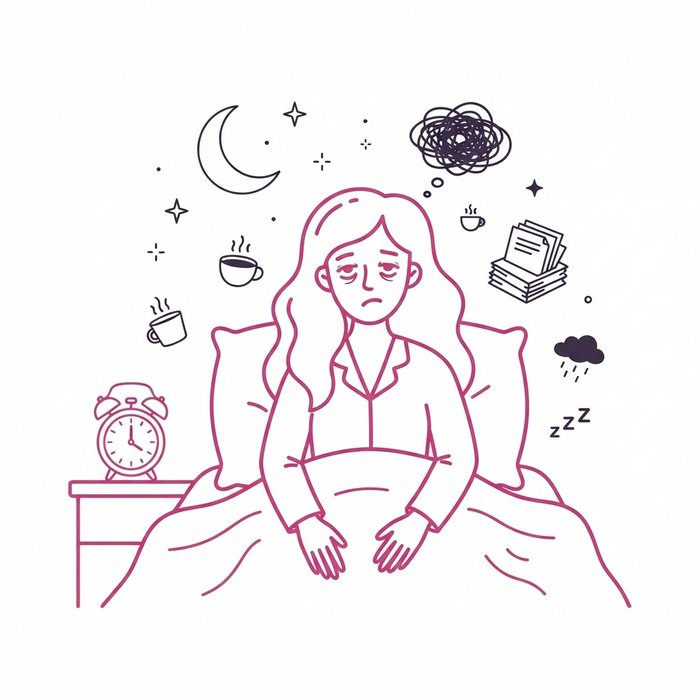
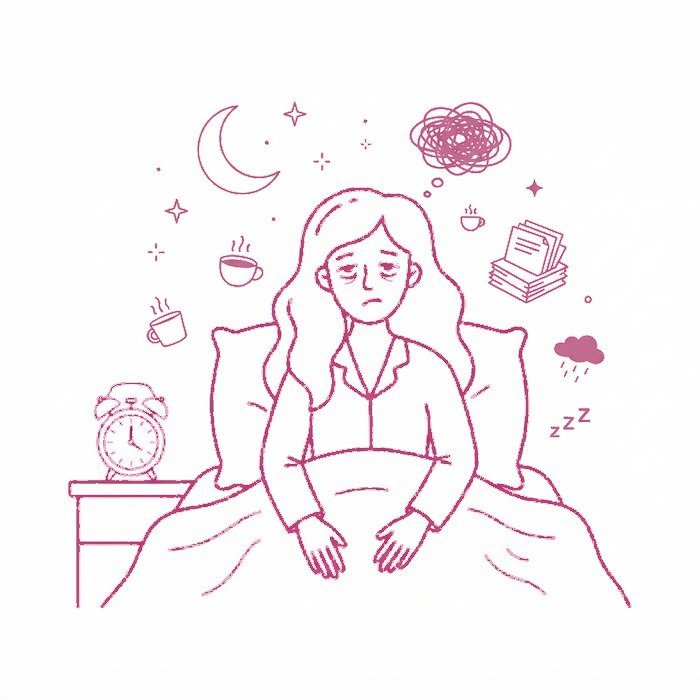
Móvil: tarjetas de temas con la foto arriba salvo en áreas clave; ilustración de descanso sin negro

diff --git a/src/styles/movil.css b/src/styles/movil.css
@@ -116,12 +116,14 @@
     font-size: 36px !important;
   }
 
-  /* Áreas clave y temas: imagen pequeña a la izquierda y texto al lado. */
-  body.movil-v2 .temas-relacionados .grid {
+  /* Áreas clave de las hijas: imagen pequeña a la izquierda y texto al
+     lado. Solo ahí: en madres, portada y Quiénes somos las tarjetas de
+     temas siguen con la foto arriba (pedido de la usuaria, 20 oct). */
+  body.movil-v2 .areas-clave .temas-relacionados .grid {
     grid-template-columns: 1fr !important;
     gap: 12px !important;
   }
-  body.movil-v2 .tema-card {
+  body.movil-v2 .areas-clave .tema-card {
     display: grid !important;
     grid-template-columns: 88px 1fr;
     grid-template-rows: auto 1fr;
@@ -130,8 +132,8 @@
     padding: 12px !important;
     text-align: left !important;
   }
-  body.movil-v2 .tema-card .icon-img,
-  body.movil-v2 .tema-card .icon {
+  body.movil-v2 .areas-clave .tema-card .icon-img,
+  body.movil-v2 .areas-clave .tema-card .icon {
     grid-row: 1 / 3;
     width: 88px !important;
     height: 88px !important;
@@ -139,11 +141,11 @@
     border-radius: 12px;
     object-fit: cover;
   }
-  body.movil-v2 .tema-card h3 {
+  body.movil-v2 .areas-clave .tema-card h3 {
     margin: 0 0 4px !important;
     text-align: left !important;
   }
-  body.movil-v2 .tema-card p {
+  body.movil-v2 .areas-clave .tema-card p {
     margin: 0 !important;
   }
 

diff --git a/00-analisis/16-estado-sesion-2026-10-18.md b/00-analisis/16-estado-sesion-2026-10-18.md
@@ -13,7 +13,7 @@ Hecho en esta parte de la sesión (todo en GitHub y en el preview):
 - Páginas legales actualizadas, salvo los datos del titular y el Aviso legal, aplazados hasta que la usuaria tenga dirección postal (punto 6).
 - Redirecciones 301 de todas las direcciones antiguas de WordPress, slug `/ayuno-intermitente/`, página `/buscar/?q=` para las etiquetas y buscador limpio de bloques repetidos (punto 8).
 
-**Adaptación a móvil hecha (20 oct)** en todas las páginas (`src/styles/movil.css`): menú hamburguesa con apartados plegables y cabecera fija; títulos 20px, subtítulos 18px, párrafos y listas 16px (auditadas las 154 páginas: ningún otro tamaño), texto a la izquierda, causas con icono arriba de 130px, áreas clave y relacionados compactos. Aprobado por la usuaria con Menopausia como piloto. **Siguiente sesión:** la migración (punto 11). El punto 12 (dirección, actividad económica y marca) va para largo: recordarlo solo cuando la usuaria pregunte qué falta. Elegir entre el punto 2 (embudo de la guía: mockup y 7 categorías), el 9 (decisiones de contenido), el 10 (revocar el token de GitHub) o el 1 (ya hay acceso a Mailrelay desde el 19 oct). Después, la migración (punto 11).
+**Adaptación a móvil hecha (20 oct)** en todas las páginas (`src/styles/movil.css`): menú hamburguesa con apartados plegables y cabecera fija; títulos 20px, subtítulos 18px, párrafos y listas 16px (auditadas las 154 páginas: ningún otro tamaño), texto a la izquierda, causas con icono arriba de 130px, áreas clave de las hijas y relacionados compactos (las tarjetas de temas de madres, portada y Quiénes somos siguen con la foto arriba). Aprobado por la usuaria con Menopausia como piloto. **Siguiente sesión:** la migración (punto 11). El punto 12 (dirección, actividad económica y marca) va para largo: recordarlo solo cuando la usuaria pregunte qué falta. Elegir entre el punto 2 (embudo de la guía: mockup y 7 categorías), el 9 (decisiones de contenido), el 10 (revocar el token de GitHub) o el 1 (ya hay acceso a Mailrelay desde el 19 oct). Después, la migración (punto 11).
 
 **Para redesplegar el preview** tras cualquier cambio: `npm run build`, copiar `dist/` y `vercel.json` a una carpeta con nombre sin espacios (la usada fue `clubdenutricion-preview`, que conserva su `.vercel/`) y lanzar `npx vercel deploy --prod --yes` desde ella. La carpeta con espacio «nueva web» no sirve como nombre de proyecto.
 
@@ -27,7 +27,7 @@ Hecho en esta parte de la sesión (todo en GitHub y en el preview):
 6. [ ] **Páginas legales** (18 oct): Privacidad reescrita entera (RGPD/LOPDGDD: finalidades, bases legales, conservación, Mailrelay, MailerLite, Vercel, Google Analytics, transferencias, derechos, AEPD; correo contacto@clubdenutricion.es). Cookies reescrita; «Más información sobre las cookies» con guía de navegadores actual; Copyright con año dinámico y sin «formulario de contacto»; correos enlazados en Términos y Descargo. **Falta:** datos del titular (nombre o razón social, NIF, domicilio) en Privacidad (marcados `PENDIENTE` en el código) y crear la página de **Aviso legal** (LSSI art. 10), que no existía en el WordPress. **Aplazado por decisión de la usuaria (18 oct):** se muda en breve y no quiere publicar su dirección física; va a contratar una dirección postal propia para la web. Retomar cuando la tenga (los datos van en Privacidad y en el Aviso legal). Comprobar antes que la dirección elegida sirve como «domicilio» a efectos de la LSSI: un apartado de correos puede no bastar; una domiciliación de empresa o un coworking sí.
 7. [x] **Analítica:** Google Analytics 4 activo (18 oct), ID `G-T6KPWKGF7F` en `src/data/analitica.ts`. Comprobado: rechazando no se carga nada; aceptando se cargan `gtag.js` y las cookies `_ga` / `_ga_T6KPWKGF7F` y se envían visitas; al retirar el consentimiento se borran. Ojo: el preview de Vercel también envía visitas (con dominio `.vercel.app`); se pueden filtrar en GA por nombre de host.
 8. [x] **Decisiones de direcciones antiguas** (18 oct): Ayuno pasa a `/ayuno-intermitente/` (redirige desde `-2`); `/cuerpo/` → Relación con el cuerpo; `/keto-lowcarb/` y `/recetas-sanas-keto-y-low-carb/` → Recetas keto y low carb; `/servicios-del-club-de-nutricion/` → Quiénes somos; `/coaching-nutricional/` → artículo «Qué es el coaching nutricional»; `/alimentacion/2/` (y `/page/N/`) → Alimentación; las 31 categorías de WordPress (y su paginación) → su página; etiquetas (`/tag/<etiqueta>/`) → página de búsqueda nueva `/buscar/?q=<etiqueta>`, que lanza la búsqueda sola (las 21 etiquetas del WordPress comprobadas, todas con resultados; `legacy` va al Blog y `wegovi` busca «wegovy»); autora (`/author/…`) → Quiénes somos. El buscador ya no indexa cabecera, pie, aviso de cookies, migas, índice, compartir, Síguenos ni las tarjetas de relacionados: los resultados solo cuentan el contenido real. Todas son 301 reales en `vercel.json` (comprobadas una a una, destinos 200). `/suscripcion-lista-comunidad/` ya tenía noindex.
-9. [x] **Decisiones de contenido (20 oct):** emojis de las tarjetas de Energía y Mentalidad como imagen, igual que WordPress (Twemoji en `public/emoji/`, `src/lib/emoji.ts`); los 2 títulos del blog con emoji se quedan como están (no perjudican el SEO); entrada de coaching sin el párrafo de contacto; portada con 6 entradas por página. Pendiente solo: la usuaria revisa la ilustración «descanso» de Inflamación hormonal.
+9. [x] **Decisiones de contenido (20 oct):** emojis de las tarjetas de Energía y Mentalidad como imagen, igual que WordPress (Twemoji en `public/emoji/`, `src/lib/emoji.ts`); los 2 títulos del blog con emoji se quedan como están (no perjudican el SEO); entrada de coaching sin el párrafo de contacto; portada con 6 entradas por página. Ilustración «descanso» de Inflamación hormonal recoloreada: lo negro pasa al rosa de la ilustración (20 oct).
 10. [x] **Token de GitHub expuesto:** comprobado el 20 oct, el token (`ghp_rrVD…`) ya no es válido (GitHub responde 401). Nada que hacer.
 11. [ ] **Migración:** copia de seguridad del WordPress, dominio y DNS, SSL, Search Console y comprobaciones (`14-checklist-produccion.md`). No borrar el WordPress hasta pasado un periodo de seguridad.
     - **Correo corporativo (19 oct):** no llegaba ningún correo a @clubdenutricion.es porque `mail` era un CNAME a `clubdenutricion.es`, que va con proxy de Cloudflare (Cloudflare no entrega correo). Corregido por la usuaria: `mail` → A `62.210.212.90`, Solo DNS (servidor de correo del hosting, host.sistemahost.es). Comprobado: MX → mail → 62.210.212.90 y la prueba desde Gmail llega. **Al migrar:** cambiar solo `clubdenutricion.es` y `www` a Vercel; no tocar `mail`, MX, SPF, DKIM ni DMARC. **El correo vive en el hosting actual:** no darlo de baja sin mantenerlo solo para el correo o pasar el correo a otro servicio (Google Workspace, Zoho…). `ftp` sigue con proxy (FTP no funcionaría; solo importa si se usa). **Reenvío a Gmail (19 oct):** la usuaria creó en cPanel un reenviador de la cuenta corporativa a su Gmail; probado, llega a Principal. El original se queda también en el buzón del hosting: vaciarlo de vez en cuando. Opcional: «Enviar como» en Gmail con SMTP `mail.clubdenutricion.es`:465 SSL. **Si se pasa el correo a otro servicio al migrar, rehacer el reenvío allí.**
